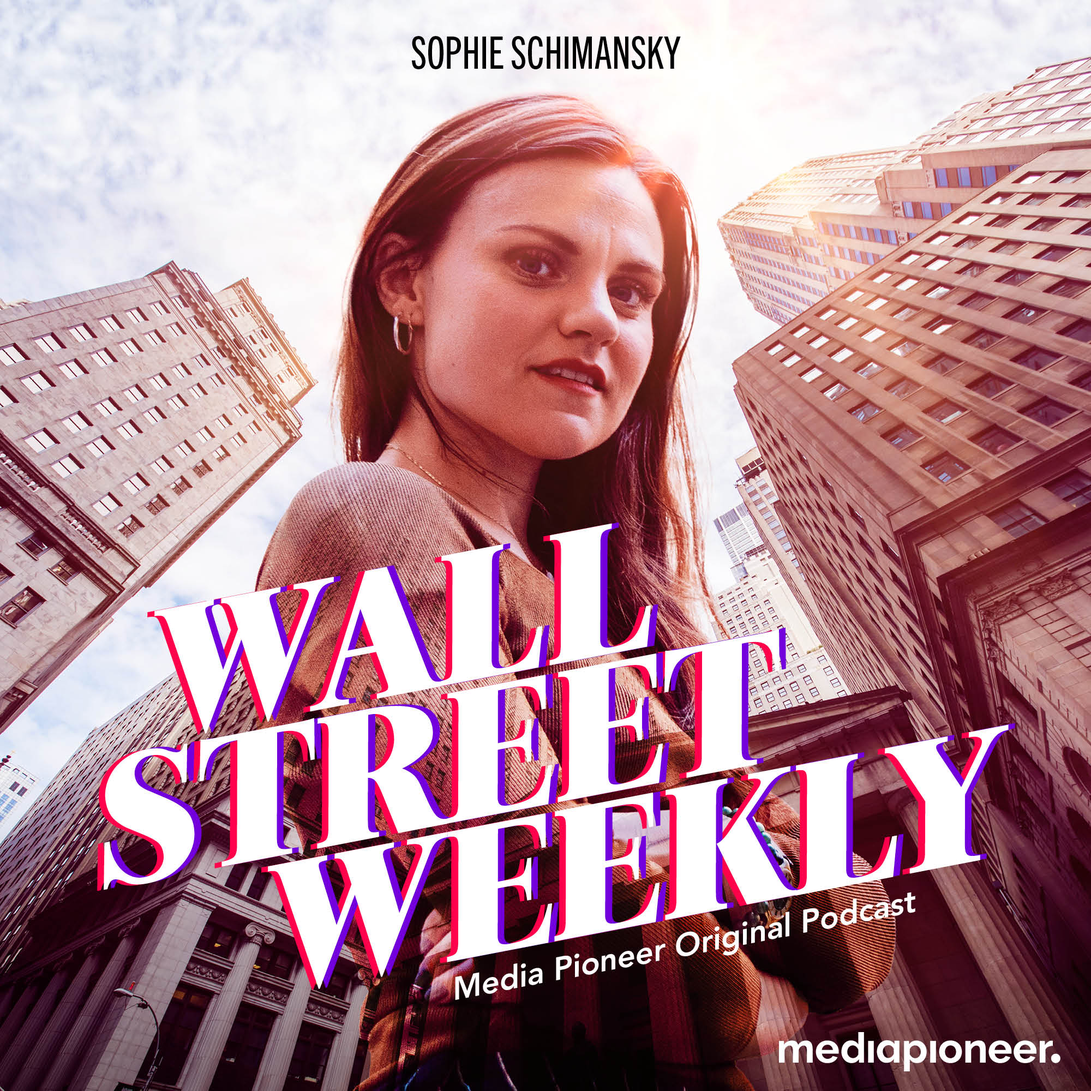
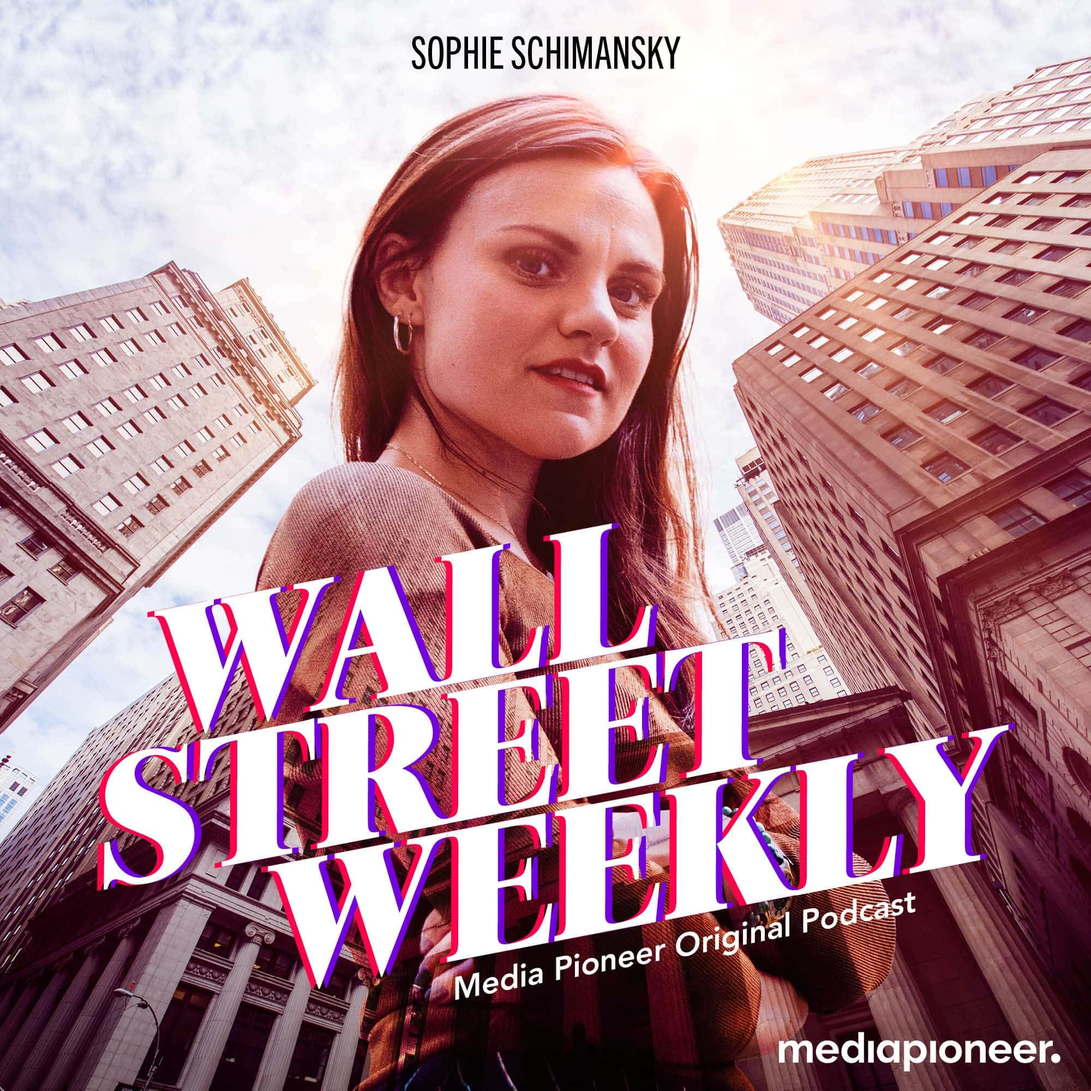
optimizations

diff --git a/src/components/ImageComponents/HeroImage.js b/src/components/ImageComponents/HeroImage.js
@@ -23,7 +23,7 @@ const HeroImage = () => (
       query {
         heroImage: file(relativePath: { eq: "hero.jpg" }) {
           childImageSharp {
-            fluid(maxWidth: 2000, quality: 100) {
+            fluid(maxWidth: 2000, quality: 90) {
               ...GatsbyImageSharpFluid_withWebp_noBase64
             }
           }

diff --git a/src/components/EpisodeLink.js b/src/components/EpisodeLink.js
@@ -35,7 +35,7 @@ const StyledLink = styled(Link)`
   font-family: Oswald, "Open Sans", -apple-system, BlinkMacSystemFont, Arial,
     sans-serif;
   font-size: 16px;
-  color: #ff0045;
+  color: #eb003f;
   letter-spacing: 0.25px;
   text-transform: uppercase;
 `

diff --git a/src/components/About.js b/src/components/About.js
@@ -26,7 +26,7 @@ const SocialContainer = styled.div`
     BlinkMacSystemFont, Arial, sans-serif; */
   font-family: Oswald;
   font-size: 21.6px;
-  color: #ff0045;
+  color: #eb003f;
   letter-spacing: 0.34px;
   text-align: center;
   margin-top: 16px;

diff --git a/src/components/MPProducts.js b/src/components/MPProducts.js
@@ -78,7 +78,7 @@ const PreHeadline = styled.p`
   font-family: Oswald, "Open Sans", -apple-system, BlinkMacSystemFont, Arial,
     sans-serif;
   font-size: 20px;
-  color: #ff0045;
+  color: #db003a;
   text-align: center;
 `
 

diff --git a/src/components/RSSButton.js b/src/components/RSSButton.js
@@ -16,7 +16,7 @@ const StyledButton = styled.a`
   & > span {
     font-weight: 500;
     margin-bottom: -2px;
-    opacity: 0.5;
+    opacity: 0.6;
     font-size: 16px;
     transition: 200ms opacity ease;
     color: #000;
